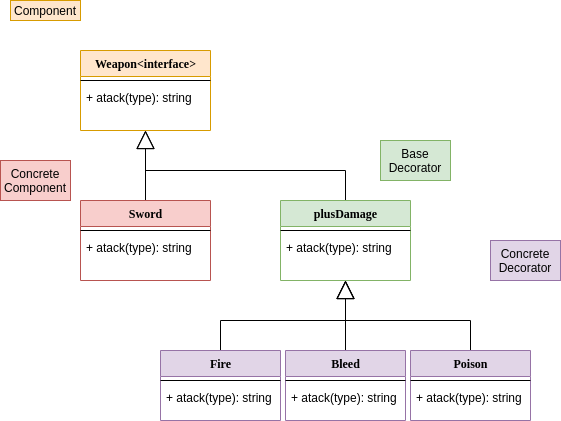
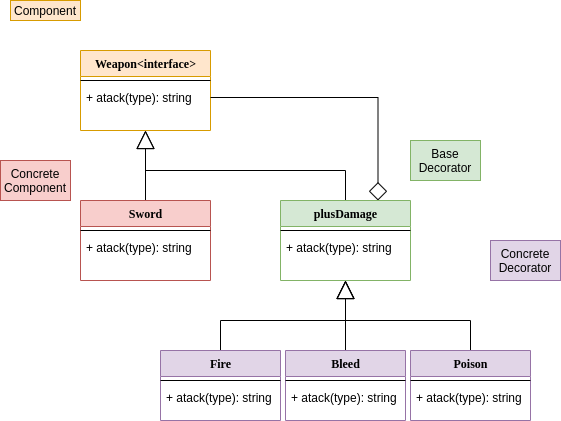
001

Changed region(s): [[0.6364, 0.247, 0.8788, 0.4941]]

diff --git a/src/app.ts b/src/app.ts
@@ -1,0 +1,15 @@
+import { Sword } from "./ConcreteComponent/Sword";
+import { Bleed } from "./ConcreteDecorator/Bleed";
+import { Fire } from "./ConcreteDecorator/Fire";
+import { Poison } from "./ConcreteDecorator/Poison";
+
+let masterSword = new Sword();
+masterSword = new Fire(
+    new Poison(
+        new Bleed(
+            masterSword
+        )
+    )
+);
+
+console.log(masterSword.atack());

diff --git a/src/BaseDecorator/plusDamage.ts b/src/BaseDecorator/plusDamage.ts
@@ -1,3 +1,12 @@
-export abstract class plusDamage{
+import { Weapon } from "../Component/Weapon";
+
+export abstract class plusDamage implements Weapon{
+    protected weapon:Weapon;
+    constructor(weapon:Weapon){
+        this.weapon = weapon;
+    }
+    atack(): string {
+        return this.weapon.atack();
+    }
 
 }

diff --git a/src/ConcreteComponent/Sword.ts b/src/ConcreteComponent/Sword.ts
@@ -2,7 +2,7 @@ import { Weapon } from "../Component/Weapon";
 
 export class Sword implements Weapon{
     atack(): string {
-        return "10 slash";
+        return " 10 slash ";
     }
 
 }

diff --git a/src/ConcreteDecorator/Fire.ts b/src/ConcreteDecorator/Fire.ts
@@ -1,0 +1,7 @@
+import { plusDamage } from "../BaseDecorator/plusDamage";
+
+export class Fire extends plusDamage{
+    atack(){
+        return " 10 Fire "+this.weapon.atack();
+    }
+}

diff --git a/src/ConcreteDecorator/Poison.ts b/src/ConcreteDecorator/Poison.ts
@@ -1,0 +1,7 @@
+import { plusDamage } from "../BaseDecorator/plusDamage";
+
+export class Poison extends plusDamage{
+    atack(){
+        return " 10 Poison " + super.atack();
+    }
+}

diff --git a/src/ConcreteDecorator/Bleed.ts b/src/ConcreteDecorator/Bleed.ts
@@ -1,0 +1,7 @@
+import { plusDamage } from "../BaseDecorator/plusDamage";
+
+export class Bleed extends plusDamage{
+    atack(){
+        return " 10 Bleed "+super.atack();
+    }
+}

diff --git a/README.md b/README.md
@@ -1,88 +1,9 @@
-# :notebook_with_decorative_cover: DesignPatterns
 
-## :pushpin: Table of Contents
- * [Description](#book-Description)
- * [Technology](#hammer_and_wrench-Technology)
- * [Require](#bookmark_tabs-Require)
- * [Types of DP](#link-Types-of-Design-Patterns)
- ## :book: Description 
- this is my road to studing design Pattersn spired by [Design Patterns for Humans](https://github.com/kamranahmedse/design-patterns-for-humans)
- each branch is a implmentation in typescript of a especific design patern 
-## :hammer_and_wrench: Technology
- * [NodeJS](https://nodejs.org/en/)
- * [typescript](https://www.typescriptlang.org/)
-## :bookmark_tabs: Require
-* [NodeJS](https://nodejs.org/en/)
- ## :link: Types of Design Patterns
- * [Creational](#building_construction-Creational)
- * [Structural](#classical_building-Structural)
- # :building_construction: Creational
- his focues is how to intatiate an object or group of relates objects.
- * [Abstract Factory](#factory-Abstract-Factory)
- * [Factory Method](#bricks-Factory-Method)
- * [Builder](#houses-Builder)
- * [Prototype](#robot-Prototype)
- * [Singleton](#one-Singleton)
-
- # :classical_building: Structural
- This kind of patter explain how to builde classes with big structures, but mainten this flexible and eficient
- 
- * [Adapete](#electric_plugadapter)
- * [Bridged](#bridge_at_night-Bridge)
- * [Composite](#deciduous_tree-Composite)
- ## :factory: Abstract Factory
- this pattern is responsable for create certan type of objects lets imgagin one veichle factory, this factory have two another factorys one create sportive vehicles another popular vehicles. 
-<img src= "./assets/create/AbstractFactory.png">
- * [code](https://github.com/nicolaskruger/designPatterns/tree/abstractFactory)
-## 	:bricks: Factory Method
- Factory Method switch operations depends on your concrete object, lets imagin two cereal brand sucrilhos end nescal, bouth have the same method cereal that gives the cereal, but each one gives a specrifica ceral, for that we create one abstracte class CeralBox that give the cereal with a function giveCereal, and this class have one abstract mathod that create the sereal. That abstract method need to be inplmentede for a concrete class.
- 
- <img src= "./assets/create/FactoryMethod.png">
- 
- * [code](https://github.com/nicolaskruger/designPatterns/tree/FactoryMethod)
-  
-## :houses: Builder
-Builder is a design patern that allow you to buil complex objects step by step.
-
- <img src= "./assets/create/Builder.png">
- 
- * [code](https://github.com/nicolaskruger/designPatterns/tree/builder)
- 
- ## :robot: Prototype
- This pattern allow you to copy existing objects without make your code being dependent of yous classes.
- 
- <img src= "./assets/create/Clone.png">
- 
-* [code](https://github.com/nicolaskruger/designPatterns/tree/Prototype)
-
-## :one: Singleton
-
-This pattern ensure that one class have only one instance.
-
- <img src= "./assets/create/Singleton.png">
- 
- * [code](https://github.com/nicolaskruger/designPatterns/tree/Singleton)
- ## :electric_plug:	Adapter
-
- Allow objects with incompatible interfaces co-work toogeter.
- 
- <img src= "./assets/structural/Adapter.png">
- 
-  * [code](https://github.com/nicolaskruger/designPatterns/tree/Adapter)
-  
-  ## :bridge_at_night: Bridge
-  
-  That patter allow you to split one big class or one arrange of classes in two diferents hierarchy.
-  
-  
- <img src= "./assets/structural/Bridge.png">
- 
-  * [code](https://github.com/nicolaskruger/designPatterns/tree/Bridge)
-  
   ## :deciduous_tree: Composite
   
   This pattern allow you so store your's objects in tree extructure
   
    <img src= "./assets/structural/Composite.png">
-   
-   * [code](https://github.com/nicolaskruger/designPatterns/tree/Composite)
+    code is inside the folder `./src`
+
+* [main](https://github.com/nicolaskruger/designPatterns)
